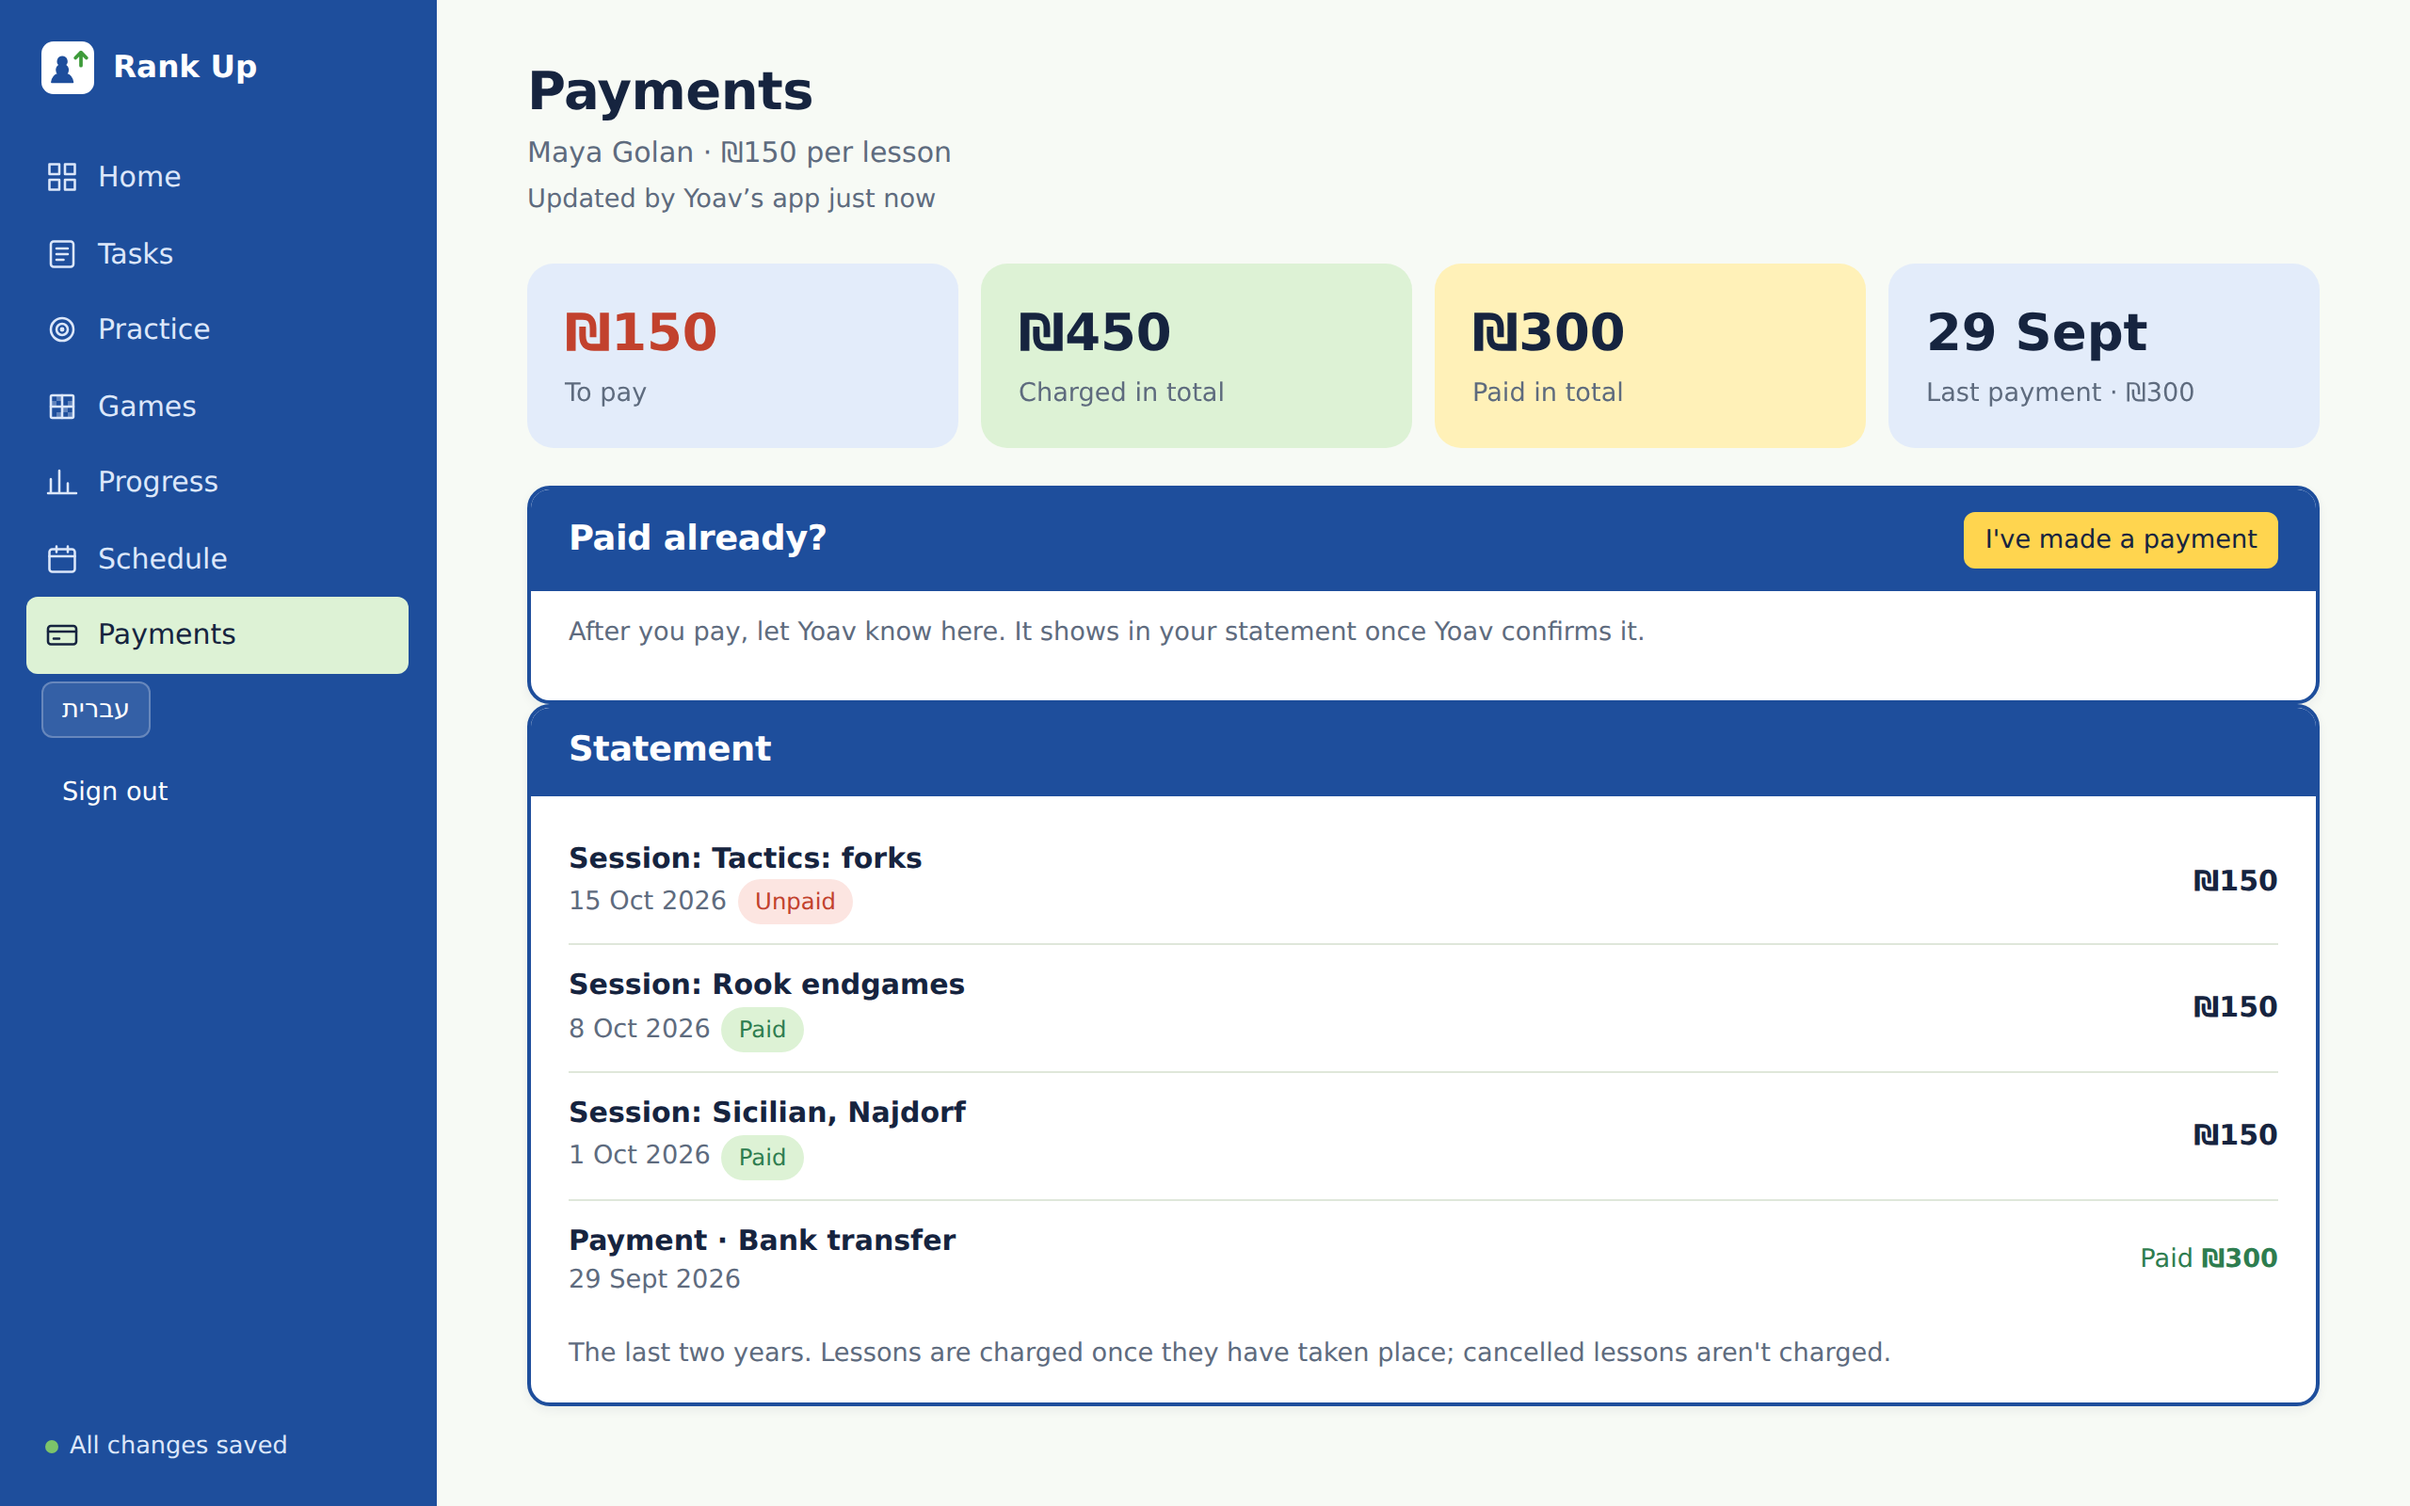
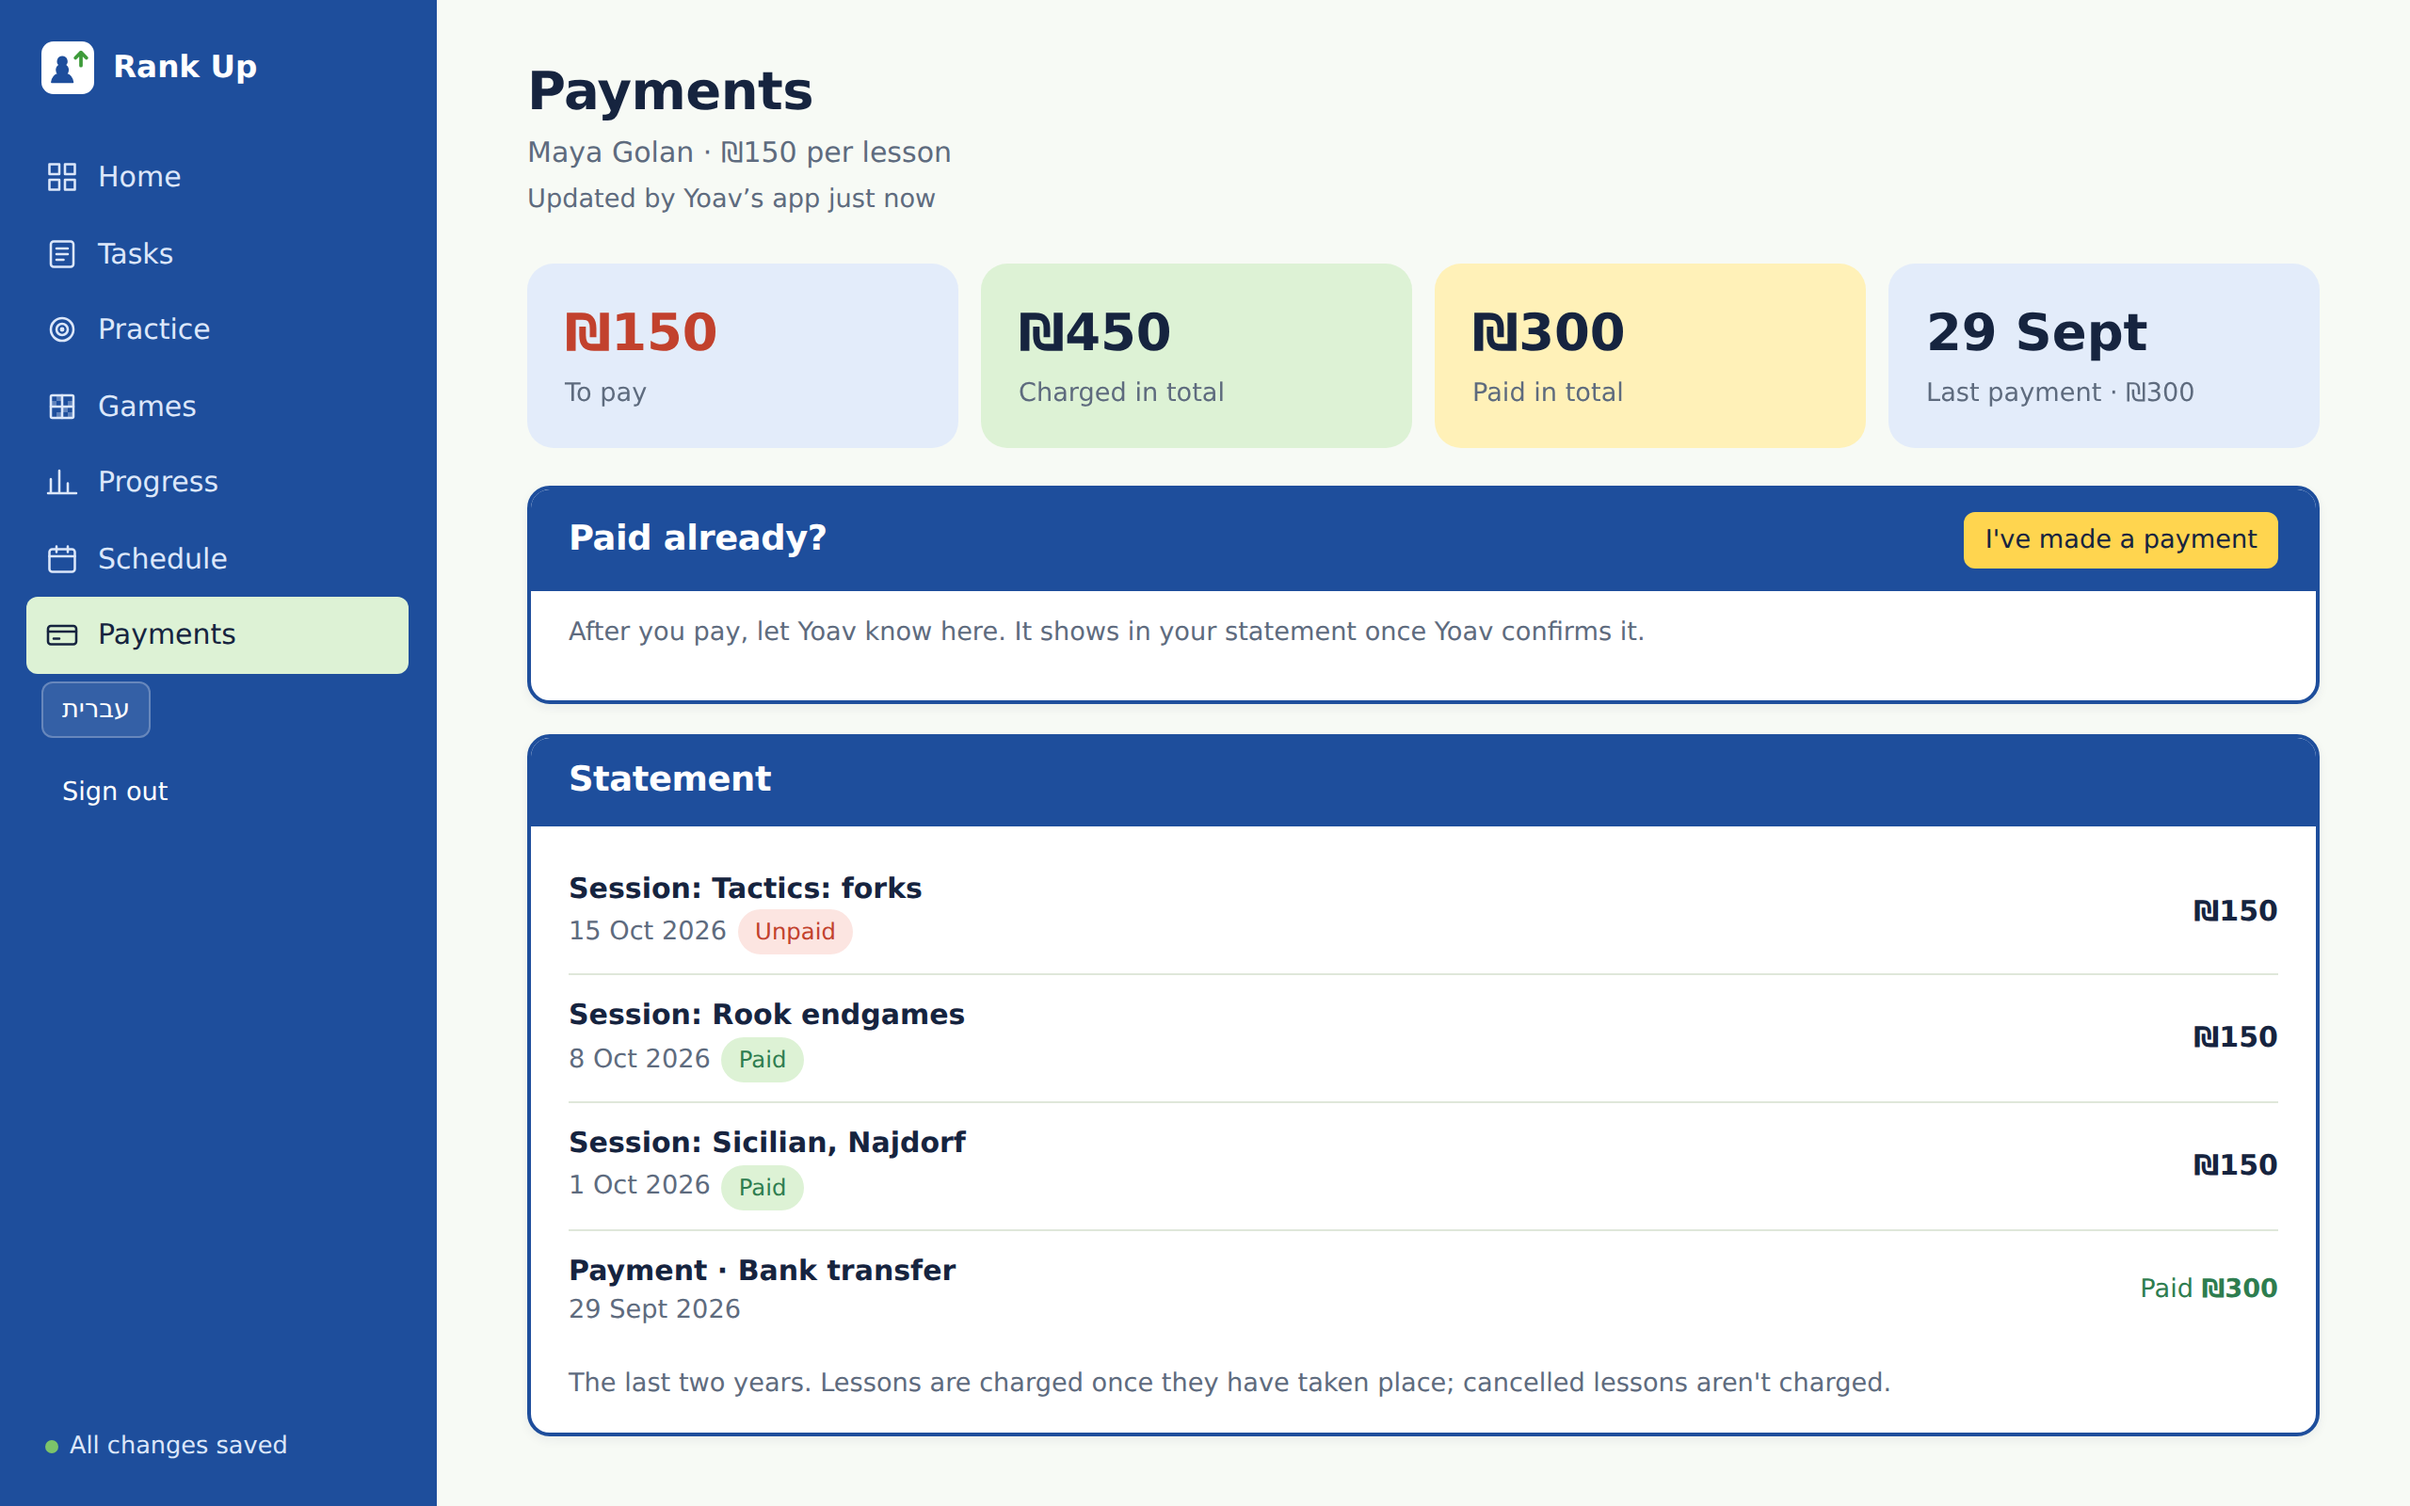
Payments for students and parents: space between the boxes
Claude-Session: https://claude.ai/code/session_014MRjv4gCzUKZuuwYgW78sx

Changed region(s): [[0.2188, 0.4688, 0.9688, 0.9375], [0.9062, 0.6562, 0.9688, 0.7812], [0.875, 0.8125, 0.9375, 0.875]]

diff --git a/index.html b/index.html
@@ -4135,6 +4135,7 @@ function pFamilyPay(v, s){
     '<div class="stats"><div class="stat"><div class="v num'+(p.balance>0.009?" money-owed":"")+'">'+(p.balance>0.009?m(p.balance):p.balance<-0.009?m(-p.balance):"✓")+'</div><div class="l">'+(p.balance>0.009?(p.overdue?p.age+" days overdue":"To pay"):p.balance<-0.009?"In credit":"Paid up")+'</div></div>'+
       '<div class="stat"><div class="v num">'+m(p.charged)+'</div><div class="l">Charged in total</div></div><div class="stat"><div class="v num">'+m(p.paid)+'</div><div class="l">Paid in total</div></div>'+
       '<div class="stat"><div class="v num">'+(p.lastPay?esc(fmtShort(p.lastPay.date)):"—")+'</div><div class="l">'+(p.lastPay?"Last payment · "+m(p.lastPay.amount):"No payments yet")+'</div></div></div>'+
+    '<div class="grid">'+ // space between the boxes, as on the other pages
     (p.upcoming && p.upcoming.length ? panel("Coming up", '<ul class="list stmt">'+
       p.upcoming.map(r=>'<li><div class="main"><div class="title">'+esc(r.label)+'</div><div class="small muted">'+esc(fmtDate(r.date))+(r.end&&r.end!==r.date?' – '+esc(fmtDate(r.end)):'')+'</div></div><b class="num">'+m(r.amount)+'</b></li>').join("")+'</ul>'+
       '<p class="small muted" style="margin:8px 0 0">Not charged yet: these are added to the balance once the tournament is played.</p>') : '')+
@@ -4143,7 +4144,7 @@ function pFamilyPay(v, s){
     panel("Statement", p.rows.length ? '<ul class="list stmt">'+ // one small card per line, so it reads well on a phone
       p.rows.map(r=>'<li><div class="main"><div class="title">'+esc(r.label)+'</div><div class="small muted" style="display:flex;flex-wrap:wrap;gap:6px;align-items:center">'+esc(fmtDate(r.date))+(r.sessionId ? ' '+lessonPayTag(s, r) : '')+'</div></div>'+
         '<div style="text-align:end;white-space:nowrap">'+(r.charge?'<b class="num">'+m(r.charge)+'</b>':'')+(r.paid?'<div class="small" style="color:var(--ok)">Paid <b class="num">'+m(r.paid)+'</b></div>':'')+'</div></li>').join("")+'</ul>'+
-      '<p class="small muted" style="margin:8px 0 0">The last two years. Lessons are charged once they have taken place; cancelled lessons aren\'t charged.</p>' : '<p class="empty">No charges or payments yet.</p>');
+      '<p class="small muted" style="margin:8px 0 0">The last two years. Lessons are charged once they have taken place; cancelled lessons aren\'t charged.</p>' : '<p class="empty">No charges or payments yet.</p>')+'</div>';
 }
 function pHome(v, s){
   const t = today(), first = (lang()==="he" && (s.nameHe||"").trim()) || firstName(s); // the Hebrew name in Hebrew
